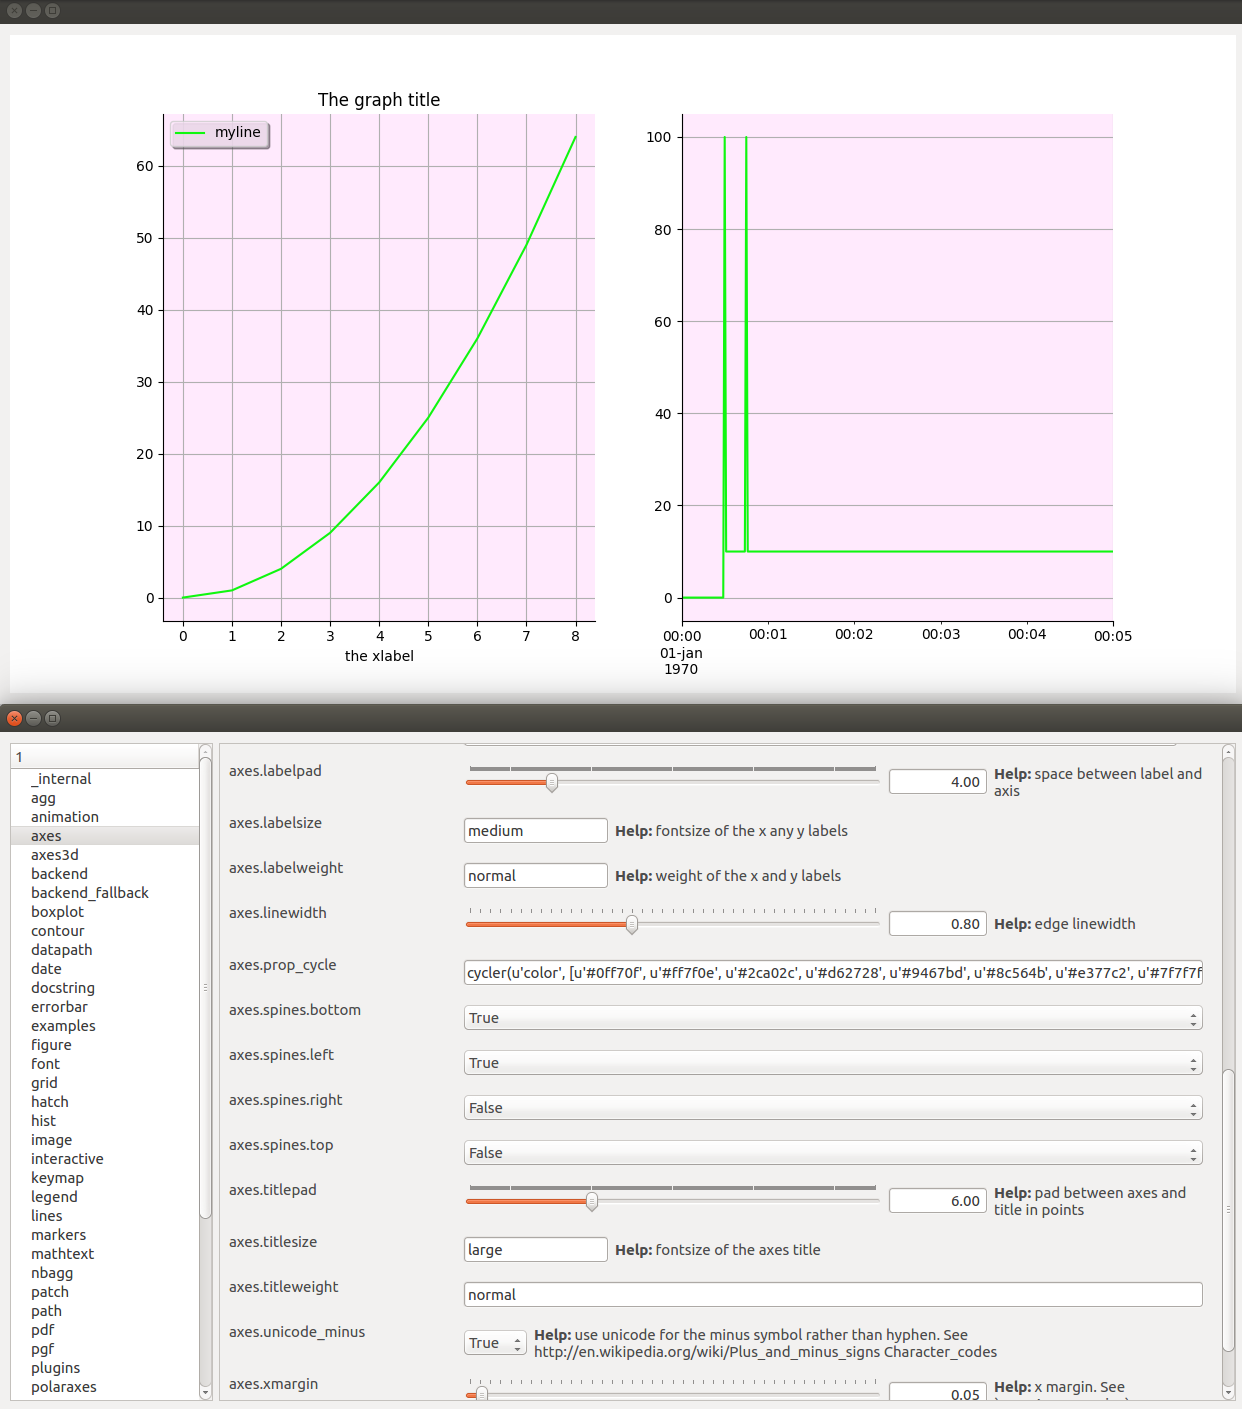
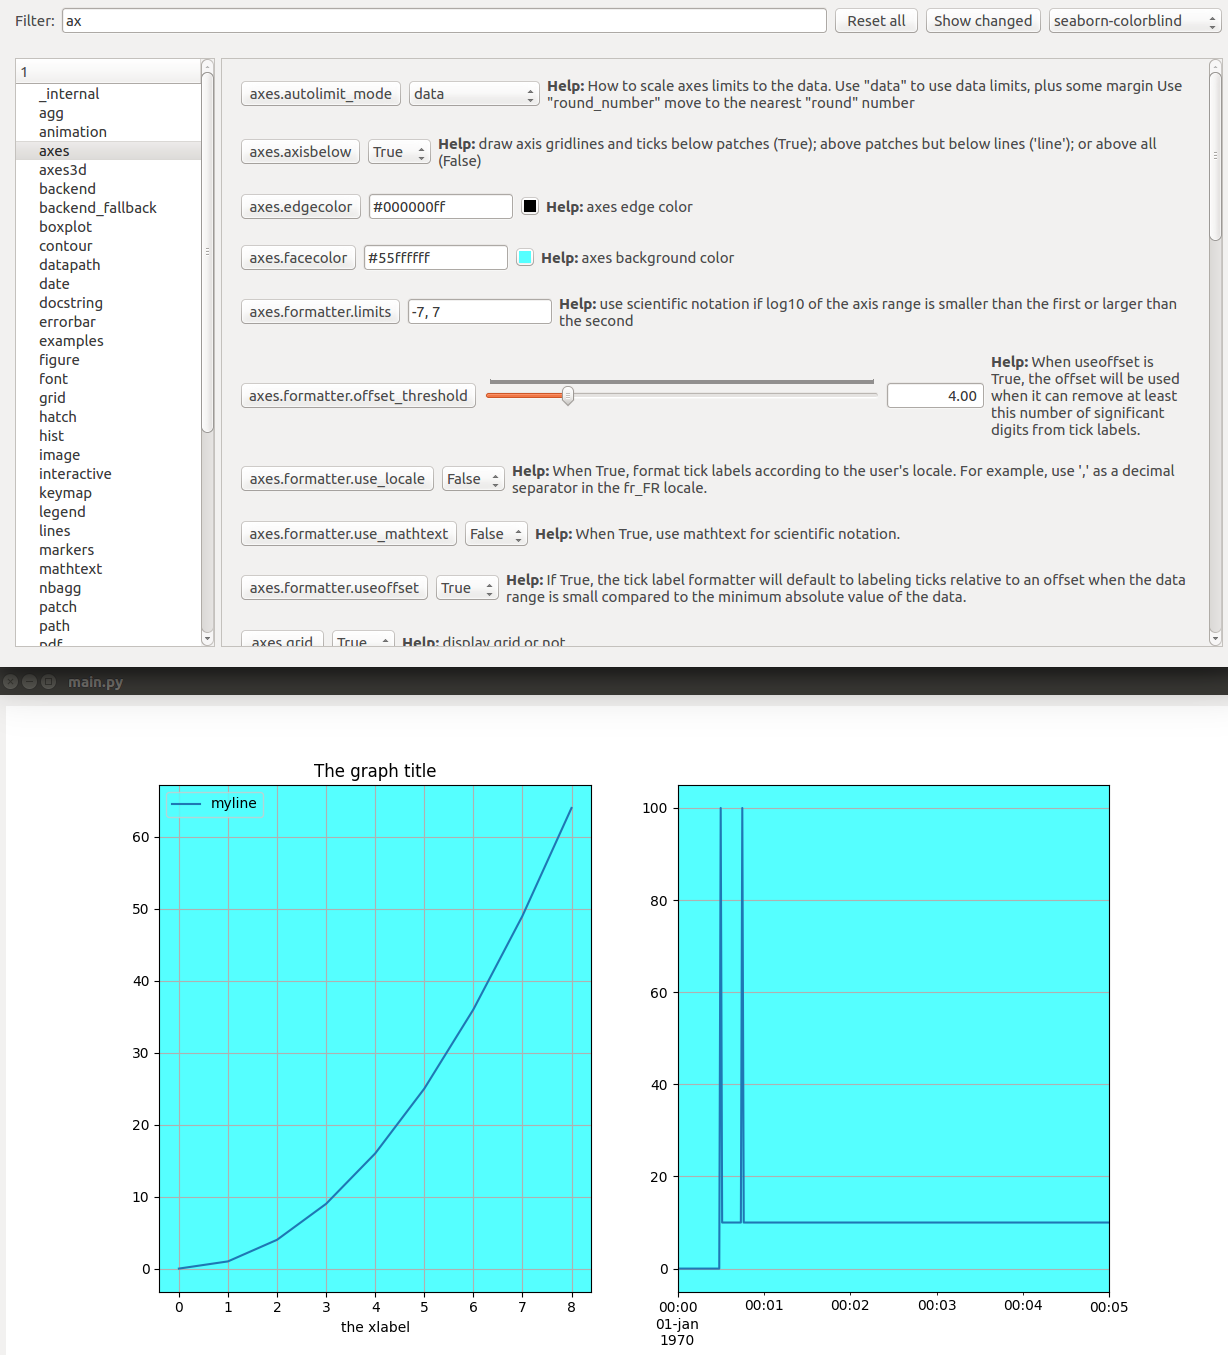
Add reset, load mplstyle, filter input field. Various fixes

diff --git a/main.py b/main.py
@@ -15,22 +15,23 @@ import yaml
 # Matplotlib and Qt imports
 import matplotlib
 import matplotlib as mpl
+import matplotlib.pyplot
 
 from matplotlib.figure import Figure
 from matplotlib.backend_bases import key_press_handler
 from matplotlib.backends.qt_compat import QtWidgets, QtCore, QtGui, is_pyqt5
 
 if is_pyqt5():
-    from PyQt5.QtCore import pyqtSignal, Qt 
+    from PyQt5.QtCore import pyqtSignal, Qt
     from matplotlib.backends.backend_qt5agg import FigureCanvasQTAgg \
                                                             as FigureCanvas
     from matplotlib.backends.backend_qt5agg import NavigationToolbar2QT \
                                                             as NavigationToolbar
 else:
     from PyQt4.QtCore import pyqtSignal, Qt
-    from matplotlib.backends.backend_qt5agg import FigureCanvasQTAgg \
+    from matplotlib.backends.backend_qt4agg import FigureCanvasQTAgg \
                                                             as FigureCanvas
-    from matplotlib.backends.backend_qt5agg import NavigationToolbar2QT \
+    from matplotlib.backends.backend_qt4agg import NavigationToolbar2QT \
                                                             as NavigationToolbar
 
 
@@ -95,37 +96,83 @@ def test():
     pt.build_tree()
     return pt
 
+def QString2pyunicode(qs):
+    if not isinstance(qs, str):
+        return str(qs.toAscii()).decode('utf8')
+    else:
+        return qs
 
 
 class ParamTree(QtWidgets.QWidget):
     def __init__(self, plot_callback=None):
         super(ParamTree, self).__init__()
         self.setMinimumSize(600, 400)
-        self.setLayout(QtWidgets.QHBoxLayout())
+        self.setLayout(QtWidgets.QVBoxLayout())
+
+        self.top = QtWidgets.QWidget()
+        self.top.setLayout( QtWidgets.QHBoxLayout() )
+        self.layout().addWidget(self.top)
+
+        self.top.layout().addWidget(QtWidgets.QLabel('Filter:'))
+        self.filtration_field = QtWidgets.QLineEdit()
+        self.top.layout().addWidget(self.filtration_field)
+        self.filtration_field.textChanged.connect(self.filtration_changed)
+
+        self.reset_all_button = QtWidgets.QPushButton('Reset all')
+        self.top.layout().addWidget(self.reset_all_button)
+        self.reset_all_button.clicked.connect(self.reset_all)
+
+        self.show_changed_button = QtWidgets.QPushButton('Show changed')
+        self.top.layout().addWidget(self.show_changed_button)
+        self.show_changed_button.clicked.connect(
+            lambda: self.display_list(sorted(self.changed))
+        )
+
+        self.mplstyle_combobox = QtWidgets.QComboBox()
+        self.top.layout().addWidget(self.mplstyle_combobox)
+        self.mplstyle_combobox.addItems(
+            ['<Load mplstyle>'] + mpl.pyplot.style.available
+        )
+        self.mplstyle_combobox.currentIndexChanged.connect(
+            lambda _dummy: self.load_mplstyle(
+                str(self.mplstyle_combobox.currentText())
+            )
+        )
+
+        self.lower_frame = QtWidgets.QFrame()
+        self.lower_frame.setLayout(QtWidgets.QHBoxLayout())
+        self.layout().addWidget(self.lower_frame)
+
         self.tw = QtWidgets.QTreeWidget(self)
         self.tw.setMinimumWidth(100)
-        self.layout().addWidget(self.tw, stretch=2)
-        self.show()
-        self.changed = {}
-        self.plot_callback = plot_callback
+        self.lower_frame.layout().addWidget(self.tw, stretch=2)
+
         self.fig_widget = QtWidgets.QWidget()
         self.fig_widget.setMinimumSize(600, 400)
         self.fig_widget.setLayout(QtWidgets.QVBoxLayout())
         self.fig_widget.show()
+
         self.prop_frame = QtWidgets.QFrame()
         self.prop_frame.setLayout( QtWidgets.QVBoxLayout() )
         self.prop_frame.layout().addStretch()
+
         self.scroll_area = QtWidgets.QScrollArea()
         self.scroll_area.setWidget(self.prop_frame)
         self.scroll_area.setWidgetResizable(True)
-        self.layout().addWidget(self.scroll_area, stretch=10)
+        self.lower_frame.layout().addWidget(self.scroll_area, stretch=10)
+
+        self.plot_callback = plot_callback
         self.prop_widgets = {}
+        self.prevent_figure_update = False
         with open('rcParams.yaml') as fh:
             self.categorized_params = yaml.safe_load(fh)
         self.params = dict(chain.from_iterable(
             [subdict.items() for subdict in self.categorized_params.values()]
         ))
         self.currently_displayed = []
+        self.changed = {}
+
+        self.show()
 
     def build_tree(self):
         for category, pdict in sorted(self.categorized_params.items()):
@@ -136,6 +183,40 @@ class ParamTree(QtWidgets.QWidget):
         self.tw.setCurrentIndex(
             self.tw.model().index(axes_idx, 0)
         )
+        self.plot_with_changed()
+
+    def filtration_changed(self, text):
+        spaced_separated = QString2pyunicode(text).split(' ')
+        if not spaced_separated:
+            return
+        matching_first = self.params_matching(substr=spaced_separated[0])
+        filtered_final = []
+        for item in matching_first:
+            if all(tok in item for tok in spaced_separated[1:]):
+                filtered_final.append(item)
+            else:
+                continue
+        self.display_list(
+            sorted(filtered_final)
+        )
+
+    def load_mplstyle(self, name):
+        rcparams = mpl.pyplot.style.library.get(name)
+        if rcparams is None:
+            logger.debug('mplstyle not found %s', name)
+            return
+        any_unrecognized = set(rcparams) - set(self.params)
+        if any_unrecognized:
+            logger.error('Unrecognized params in mplstyle %s: %s',
+                          name,
+                          any_unrecognized)
+            return
+        self.display_list(list(rcparams))
+        self.prevent_figure_update = True  # FIXME this should be a lock
+        for param, value in rcparams.items():
+            logger.debug('Loaded from style %s: (%s: %s)', name, param, value)
+            self.prop_widgets[param].set_value(value)
+        self.prevent_figure_update = False
         self.plot_with_changed()
 
     def params_matching(self, substr=None, regex=None):
@@ -166,8 +247,9 @@ class ParamTree(QtWidgets.QWidget):
     def hide_all_current_params(self):
         # TODO should probably use a formlayout and properly remove / add
         # widgets in order to have control of order
-        for widg in self.currently_displayed:
-            widg.hide()
+        for idx in range(self.prop_frame.layout().count() - 1): # sub -1 b/c spacer
+            child = self.prop_frame.layout().takeAt(0)
+            child.widget().hide()
 
     def tree_item_selected(self):
         selected = self.tw.selectedItems()
@@ -184,6 +266,8 @@ class ParamTree(QtWidgets.QWidget):
             self.display_list(matching)
 
     def plot_with_changed(self):
+        if self.prevent_figure_update:
+            return
         with matplotlib.rc_context(self.changed):
             logger.debug('Updating plot')
             self.fig = Figure()
@@ -196,6 +280,18 @@ class ParamTree(QtWidgets.QWidget):
     def value_updated(self, name, value):
         self.changed[name] = value
         self.plot_with_changed()
+
+    def reset_all(self):
+        self.prevent_figure_update = True
+        for param in list(self.changed):
+            self.reset_param(param)
+        self.prevent_figure_update = False
+        self.plot_with_changed()
+
+    def reset_param(self, param):
+        self.prop_widgets[param].reset_value()
+        if param in self.changed:
+            self.changed.pop(param)
 
     def widget_from_prop(self, name, prop):
         try:
@@ -212,7 +308,7 @@ class ParamTree(QtWidgets.QWidget):
         button.setSizePolicy(QtWidgets.QSizePolicy.Maximum,
                              QtWidgets.QSizePolicy.Maximum)
         widget.layout().insertWidget(0, button)
-        button.clicked.connect(widget.reset_value)
+        button.clicked.connect(lambda: self.reset_param(name))
         widget.sig_param_updated.connect(self.value_updated)
         if hasattr(widget.layout, 'addStretch'):
             widget.layout().addStretch()
@@ -230,9 +326,7 @@ class ParamTree(QtWidgets.QWidget):
         elif prop['type'] == 'float':
             widget = SliderParam(name, prop)
         elif prop['type'] == 'list':
-            widget = TextParam(name,
-                                prop,
-                                default=', '.join(map(str, prop['default'])))
+            widget = TextParam(name, prop)
         elif prop['type'] == 'bool':
             widget = ComboboxParam(name, prop)
         elif prop['type'] == 'colorstring':
@@ -422,7 +516,7 @@ def get_ipython_if_any():
     return get_ipython()
 
 
-def main():
+def main(call_exec=False):
     interactive = True
     if interactive:
         shell = get_ipython_if_any()
@@ -434,8 +528,10 @@ def main():
     from matplotlib.backends.qt_compat import QtGui
     QtGui.qApp = app
     pt = test()
-    sys.exit(app.exec_())
+    if call_exec:
+        sys.exit(app.exec_())
+    return pt
 
 
 if __name__ == '__main__':
-    main()
+    main(call_exec=True)

diff --git a/param_widgets.py b/param_widgets.py
@@ -6,9 +6,11 @@ from matplotlib.backends.qt_compat import QtWidgets, QtCore, is_pyqt5
 
 from matplotlib.backends.qt_editor.formlayout import ColorLayout, to_qcolor
 
+import logging
+logger = logging.getLogger('param_widgets')
 
 if is_pyqt5():
-    from PyQt5.QtCore import pyqtSignal, Qt 
+    from PyQt5.QtCore import pyqtSignal, Qt
 else:
     from PyQt4.QtCore import pyqtSignal, Qt
 
@@ -87,16 +89,35 @@ class TextParam(ParamWidget):
         self.setLayout( QtWidgets.QHBoxLayout() )
         self.lineedit = QtWidgets.QLineEdit()
         self.layout().addWidget(self.lineedit)
-        self.set_value(
-            default or str(props['default'])  # cast because value could be none
-        )
+        self.set_value(default or props['default'])
         self.lineedit.editingFinished.connect(self.update)
 
     def set_value(self, value):
+        if self.props['type'] == 'list':
+            if not isinstance(value, list):
+                raise ValueError(
+                    'expected list, got: %s (name: %s)', value, self.name
+                )
+            elif self.props['list_type'] == 'float':
+                value = ', '.join(map(str, value))
+            elif self.props['list_type'] == 'string':
+                value = ', '.join(value)
+            else:
+                raise ValueError('unknown list_type for param %s' %self.name)
+        if not isinstance(value, str):
+            logger.debug('Converting %s value to str: %s', self.name, value)
+            value = str(value)
         self.lineedit.setText(value)
 
     def get_value(self):
-        return str(self.lineedit.text())
+        text = str(self.lineedit.text())
+        if self.props['type'] == 'list':
+            if self.props['list_type'] == 'float':
+                return list(map(float, text.split(', ')))
+            elif self.props['list_type'] == 'string':
+                return [part.strip() for part in text.split(',')]
+        else:
+            return text
 
     def update(self):
         self.emit_update()
@@ -109,7 +130,7 @@ class ColorLayoutEmitting(ColorLayout):
         self.sig_color_updated.emit()
 
     def update_color(self):
-        color = str(self.text())  # Fixed, original does not cast from QString 
+        color = str(self.text())  # Fixed, original does not cast from QString
         qcolor = to_qcolor(color)
         self.colorbtn.color = qcolor  # defaults to black if not qcolor.isValid()
 
